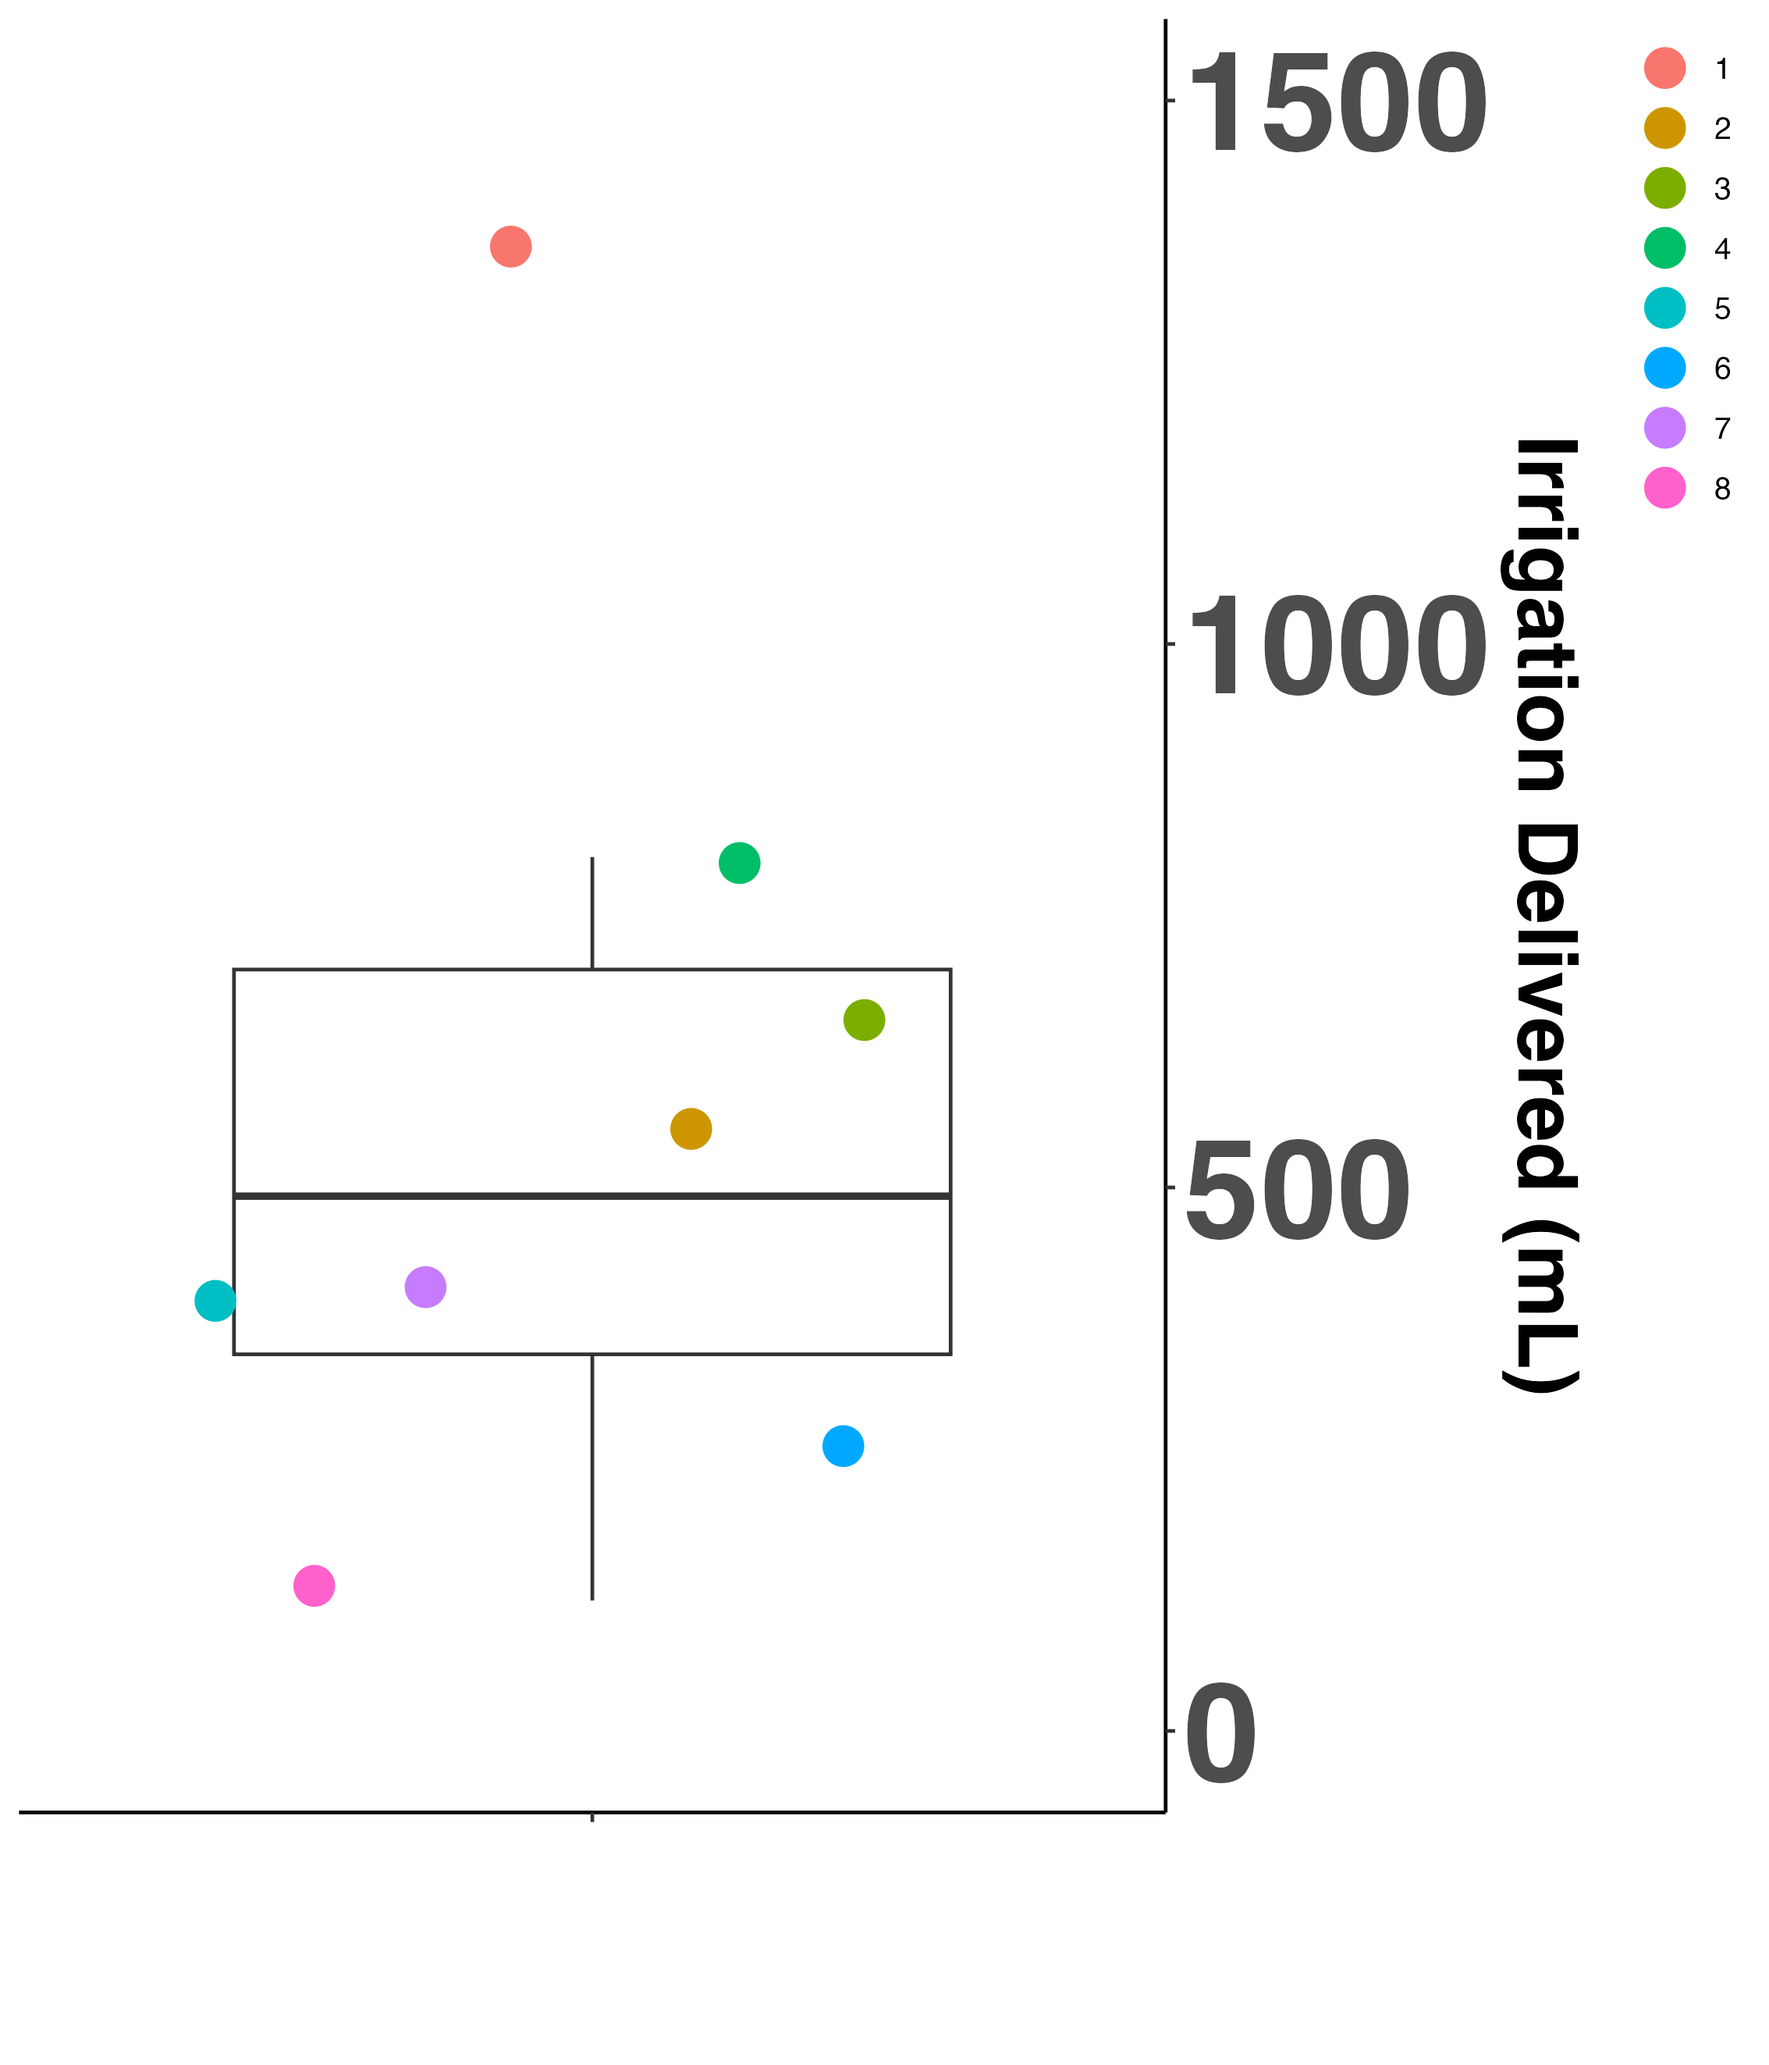
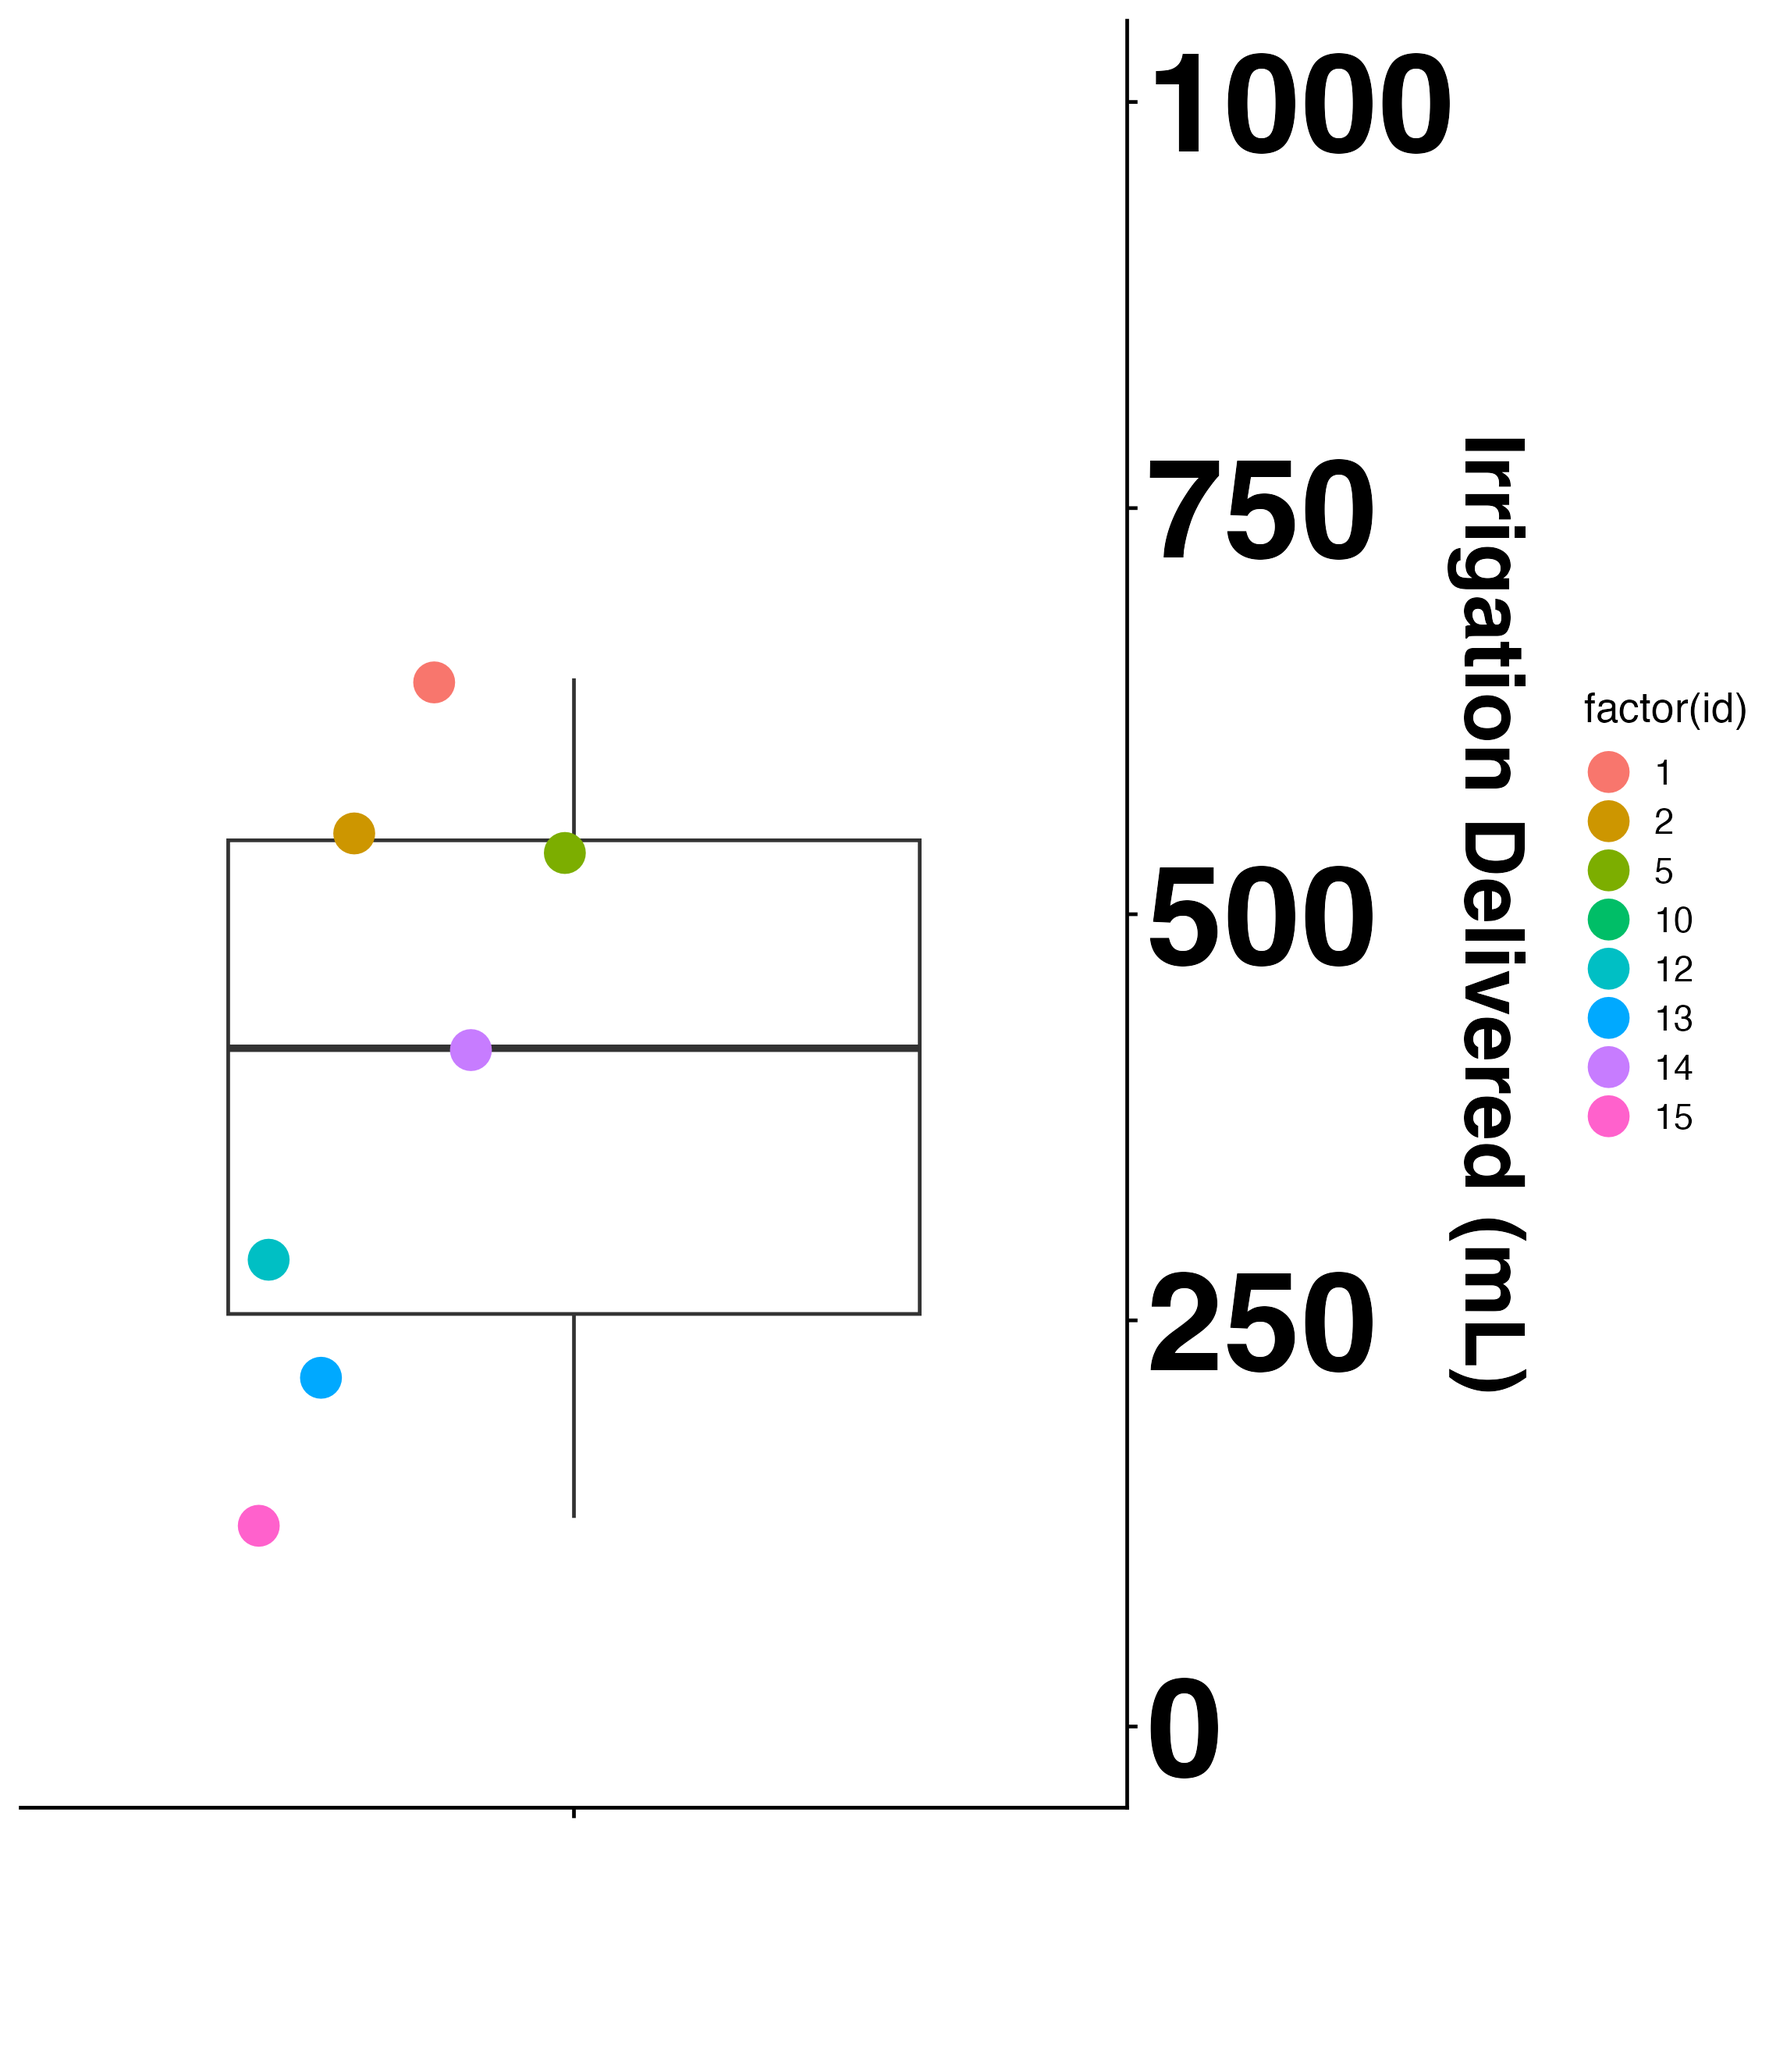
Make new plots excluding irrigation data from 1-010 since we can't accurately measure it

diff --git a/code/step_3_descriptive_stats.md b/code/step_3_descriptive_stats.md
@@ -1,7 +1,7 @@
 ---
 title: "Descriptive Statistics"
 author: "Jonathan Salas"
-date: "Last Updated 22 September, 2024"
+date: "Last Updated 24 September, 2024"
 output: 
   html_document: 
     df_print: kable
@@ -16,10 +16,6 @@ output:
 
 
 # Import - Point to the correct raw data directory
-
-
-
-# Aesthetics
 
 
 
@@ -46,7 +42,7 @@ Hypotheses:
 
 | mean_proc_min| sd_proc_min| mean_abl_min| sd_abl_min| mean_irrigation| sd_irrigation|
 |-------------:|-----------:|------------:|----------:|---------------:|-------------:|
-|      229.8571|    84.86937|      32.5875|   18.87275|             573|      387.6257|
+|      229.8571|    84.86937|      32.5875|   18.87275|        398.5714|      192.4383|
 
 </div>
 
@@ -61,30 +57,30 @@ Make temporary mapping data.
 
 #### Line Plot
 
-![](step_3_descriptive_stats_files/figure-html/unnamed-chunk-7-1.png)<!-- -->
+![](step_3_descriptive_stats_files/figure-html/unnamed-chunk-6-1.png)<!-- -->
 
 #### Box Plots
 
-![](step_3_descriptive_stats_files/figure-html/unnamed-chunk-8-1.png)<!-- -->
+![](step_3_descriptive_stats_files/figure-html/unnamed-chunk-7-1.png)<!-- -->
 ## Irrigation Delivered
 
 #### Line Plot
 
-![](step_3_descriptive_stats_files/figure-html/unnamed-chunk-9-1.png)<!-- -->
+![](step_3_descriptive_stats_files/figure-html/unnamed-chunk-8-1.png)<!-- -->
 
 #### Box Plots
 
-![](step_3_descriptive_stats_files/figure-html/unnamed-chunk-10-1.png)<!-- -->
+![](step_3_descriptive_stats_files/figure-html/unnamed-chunk-9-1.png)<!-- -->
 
 ## Ablation Time
 
 #### Line Plot
 
-![](step_3_descriptive_stats_files/figure-html/unnamed-chunk-11-1.png)<!-- -->
+![](step_3_descriptive_stats_files/figure-html/unnamed-chunk-10-1.png)<!-- -->
 
 #### Box Plots
 
-![](step_3_descriptive_stats_files/figure-html/unnamed-chunk-12-1.png)<!-- -->
+![](step_3_descriptive_stats_files/figure-html/unnamed-chunk-11-1.png)<!-- -->
 
 # Save Results
 
@@ -103,6 +99,7 @@ Make temporary mapping data.
 
 |        |package |loadedversion |
 |:-------|:-------|:-------------|
+|cowplot |cowplot |1.1.3         |
 |dplyr   |dplyr   |1.1.4         |
 |ggplot2 |ggplot2 |3.5.1         |
 
@@ -116,5 +113,5 @@ Make temporary mapping data.
 
 
 ```
-## [1] "Sun Sep 22 09:52:54 2024"
+## [1] "Tue Sep 24 09:25:33 2024"
 ```
